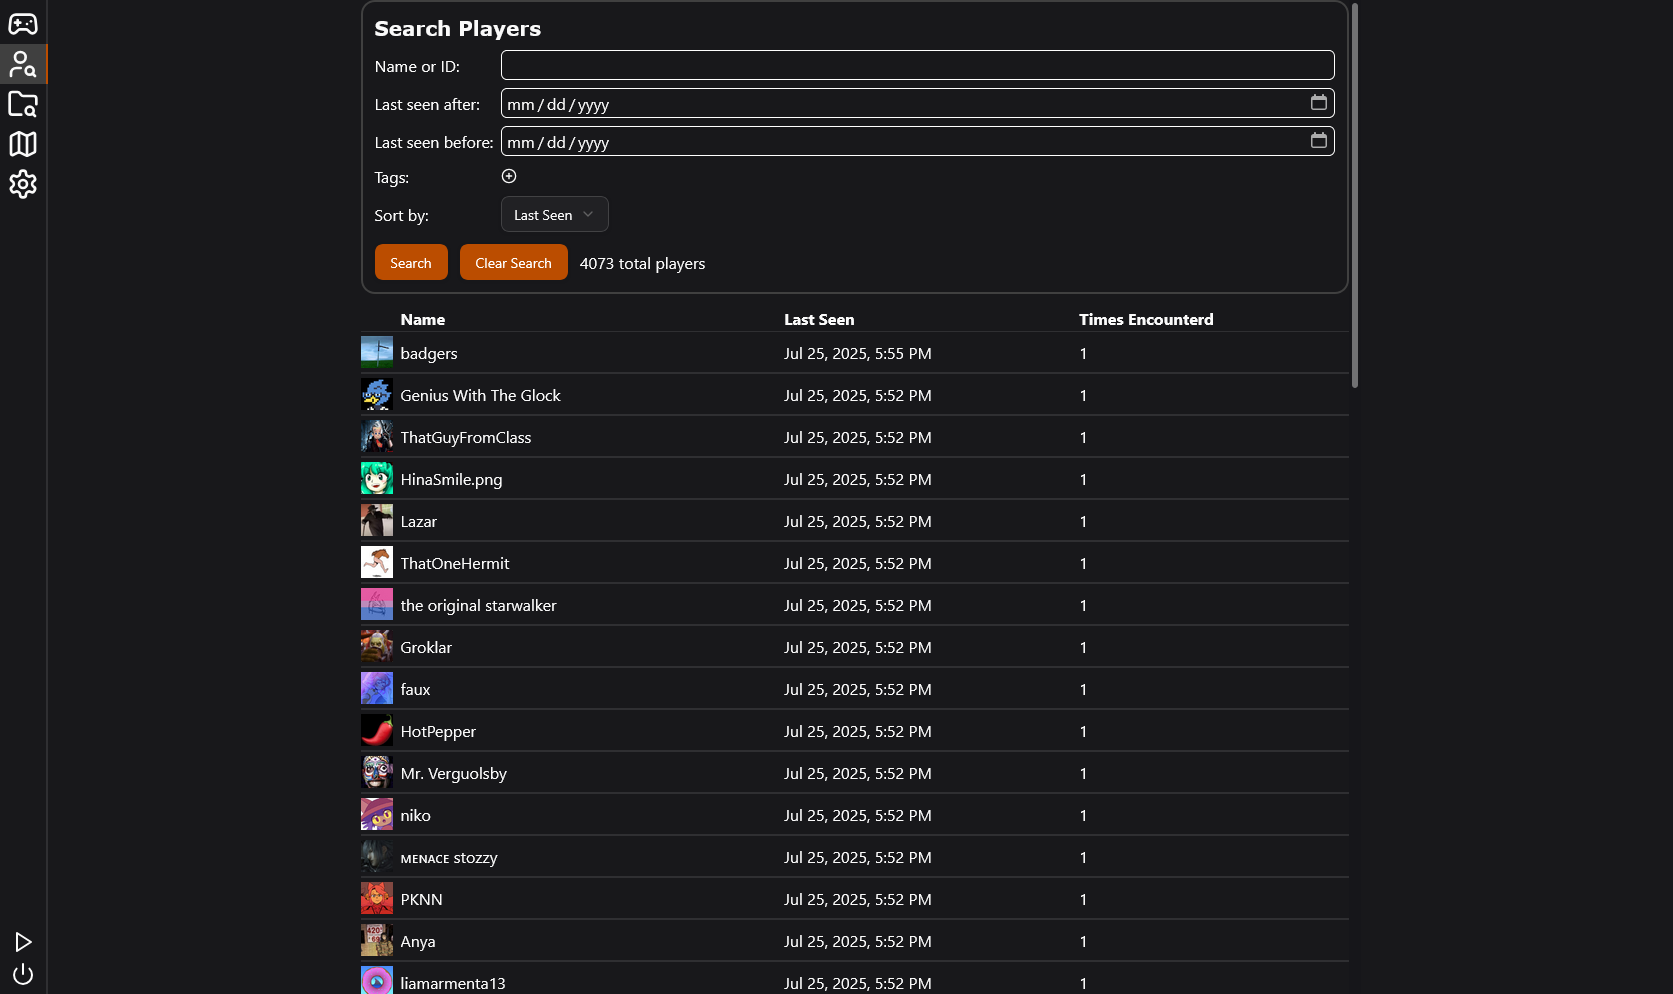
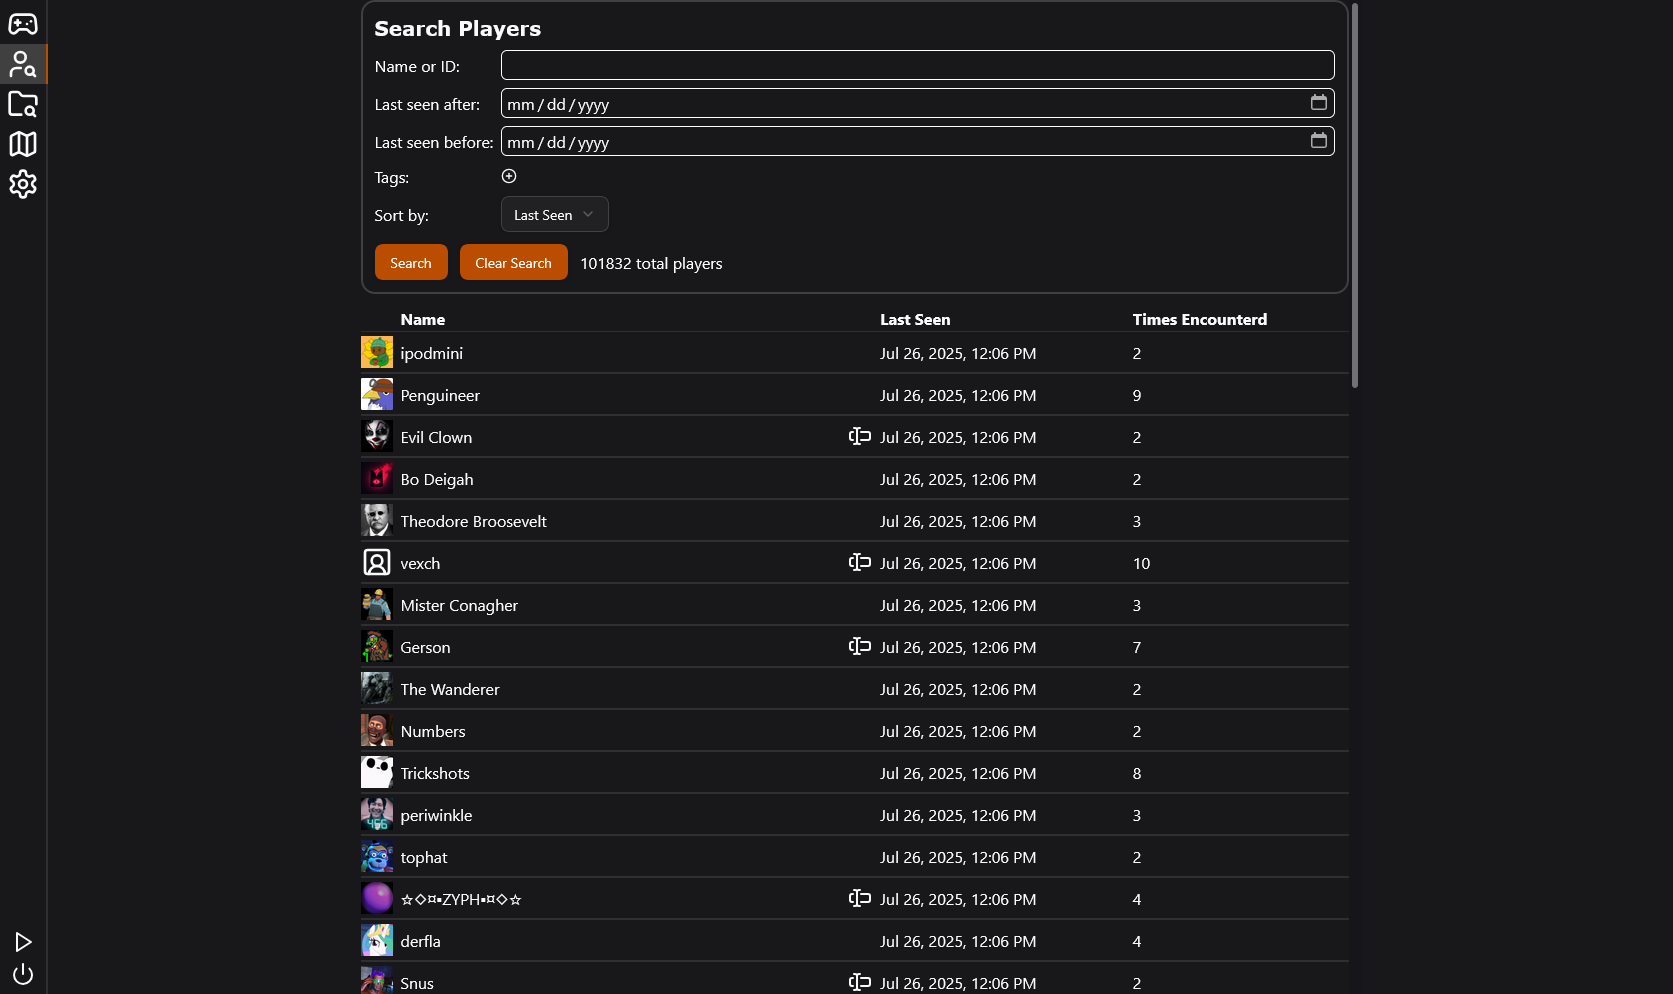
Import db from demos, small tweaks

diff --git a/backend/scripts/dbFromDemos.ts b/backend/scripts/dbFromDemos.ts
@@ -1,0 +1,167 @@
+import Settings from "src/settings/settings";
+import HistoryDatabase from "src/history/database";
+import { join } from "node:path";
+import { readdirSync } from "node:fs";
+import { execSync } from "node:child_process";
+import type { Stored, StoredPlayer, ParsedDemo, PastGamePlayer } from "$types/data";
+import { getCurrentUserId } from "src/util";
+import { MultiBar, Presets } from "cli-progress";
+import { Database } from "bun:sqlite";
+import { dataPath } from "src/consts";
+
+await Settings.init();
+HistoryDatabase.createDb();
+
+const steamId = await getCurrentUserId();
+const demosPath = join(Settings.get("tfPath"), "demos");
+const demos = readdirSync(demosPath).filter(file => file.endsWith(".dem"));
+
+const referenceDb = new Database(join(dataPath, "oldHistoryReference.sqlite"), { strict: true });
+
+// Check if there's already saved progress
+const progressFile = Bun.file("scripts/demoParseProgress.json");
+let parsed = 0;
+if(await progressFile.exists()) {
+    parsed = (await progressFile.json()).filesParsed;
+}
+
+const multi = new MultiBar({
+    format: "{bar} | {filename} | {value}/{total}"
+}, Presets.shades_grey);
+const bar = multi.create(demos.length, parsed, { filename: demos[parsed] });
+
+while(parsed < demos.length) {
+    bar.update(parsed, { filename: demos[parsed] });
+    recordDemo(demos[parsed]);
+
+    parsed++;
+    await progressFile.write(JSON.stringify({ filesParsed: parsed }));
+}
+
+multi.stop();
+
+function recordDemo(name: string) {
+    const parts = name.replace(".dem", "").replace("_", "-").split("-");
+    if(parts.length !== 6) return;
+
+    let numbers = parts.map(part => parseInt(part));
+    const date = new Date(numbers[0], numbers[1] - 1, numbers[2], numbers[3], numbers[4], numbers[5]);
+
+    // Assumes you have https://codeberg.org/demostf/parser installed
+    const command = `parse_demo "${join(demosPath, name)}"`;
+    
+    try {
+        const output: ParsedDemo = JSON.parse(execSync(command).toString());
+    
+        let players: Record<number, PastGamePlayer> = {};
+        let playerId = 0;
+        let playerKills = 0;
+        let playerDeaths = 0;
+
+        for(let player of Object.values(output.users)) {
+            let id3 = player.steamId.slice(5, -1); // Remove [U:1: and ]
+            if(id3 === steamId) playerId = player.userId;
+
+            // Ignore bots
+            if(id3.length <= 2) continue;
+
+            players[player.userId] = {
+                id: id3,
+                name: player.name,
+                time: date.getTime(),
+                kills: 0,
+                deaths: 0
+            }
+        }
+
+        // Get the playerid from our name in the header otherwise
+        if(!playerId) {
+            for(let player of Object.values(output.users)) {
+                if(player.name === output.header.nick) {
+                    playerId = player.userId;
+                    break;
+                }
+            }
+        }
+
+        if(!playerId) return;
+        delete players[playerId];
+
+        for(let kill of output.deaths) {
+            if(players[kill.killer]) players[kill.killer].kills++;
+            if(players[kill.victim]) players[kill.victim].deaths++;
+            if(kill.killer === playerId) playerKills++;
+            if(kill.victim === playerId) playerDeaths++;
+        }
+    
+        // Record games
+        let gameResult = HistoryDatabase.db.query(`INSERT INTO games (map, ip, start, duration, players, kills, deaths, demos)
+            VALUES($map, $ip, $start, $duration, $players, $kills, $deaths, $demos)`).run({
+            map: output.header.map,
+            ip: output.header.server,
+            start: date.getTime(),
+            duration: output.header.duration * 1000,
+            players: JSON.stringify(Object.values(players)),
+            kills: playerKills,
+            deaths: playerDeaths,
+            demos: JSON.stringify([name])
+        });
+
+        let rowid = gameResult.lastInsertRowid;
+
+        for(let player of Object.values(players)) {
+            // Record encounters
+            HistoryDatabase.db.query(`INSERT INTO encounters (playerId, map, name, gameId, time, kills, deaths)
+                VALUES($playerId, $map, $name, $gameId, $time, $kills, $deaths)`).run({
+                playerId: player.id,
+                map: output.header.map,
+                name: player.name,
+                gameId: rowid,
+                time: player.time,
+                kills: player.kills,
+                deaths: player.deaths
+            });
+        
+            // Record players
+            let data = HistoryDatabase.getPlayerData(player.id);
+            if(data) {
+                if(player.time > data.lastSeen) {
+                    data.lastName = player.name;
+                    data.lastSeen = player.time;
+                }
+
+                data.encounters++;
+
+                if(!data.names.includes(player.name)) {
+                    data.names.push(player.name);
+                }
+
+                HistoryDatabase.db.query(`UPDATE players SET lastName = $lastName, lastSeen = $lastSeen, encounters = $encounters, names = $names
+                    WHERE id = $id`).run({
+                    id: player.id,
+                    lastName: data.lastName,
+                    lastSeen: data.lastSeen,
+                    encounters: data.encounters,
+                    names: JSON.stringify(data.names)
+                });
+            } else {
+                // Try to get avatarHash/createdTimestamp from the reference database
+                let referenceData = referenceDb.query<Stored<StoredPlayer>, {}>(`SELECT * FROM players WHERE id = $id`)
+                    .get({ id: player.id });
+
+                HistoryDatabase.db.query(`INSERT INTO players (id, lastName, lastSeen, names, encounters, avatarHash, createdTimestamp)
+                    VALUES($id, $lastName, $lastSeen, $names, $encounters, $avatarHash, $createdTimestamp)`).run({
+                    id: player.id,
+                    lastName: player.name,
+                    lastSeen: player.time,
+                    names: JSON.stringify([player.name]),
+                    encounters: 1,
+                    avatarHash: referenceData?.avatarHash,
+                    createdTimestamp: referenceData?.createdTimestamp
+                });
+            }
+        }
+    } catch {
+        multi.log(`Failed to parse demo: ${name}`);
+    }
+}

diff --git a/types/data.ts b/types/data.ts
@@ -108,3 +108,51 @@ export interface StoredPlayer {
 export type PastPlayer = Omit<StoredPlayer, 'tags'> & {
     tags: Record<string, boolean>;
 }
+
+export interface DemoHeader {
+    demo_type: string;
+    version: number;
+    protocol: number;
+    server: string;
+    nick: string;
+    map: string;
+    game: "tf";
+    duration: number;
+    ticks: number;
+    frames: number;
+    signon: number;
+}
+
+export interface DemoChat {
+    kind: string;
+    from: string;
+    text: string;
+    tick: number;
+}
+
+export interface DemoUser {
+    classes: Record<string, number>;
+    name: string;
+    userId: number;
+    steamId: string;
+    team: string;
+}
+
+interface DemoDeath {
+    weapon: string;
+    victim: number;
+    assister: number | null;
+    killer: number;
+    tick: number;
+}
+
+export interface ParsedDemo {
+    header: DemoHeader;
+    chat: DemoChat[];
+    users: Record<string, DemoUser>;
+    deaths: DemoDeath[];
+    rounds: any[];
+    startTick: number;
+    intervalPerTick: number;
+    pauses: any[];
+}

diff --git a/frontend/src/lib/components/ui/tooltip/tooltip-content.svelte b/frontend/src/lib/components/ui/tooltip/tooltip-content.svelte
@@ -22,7 +22,7 @@
 		{sideOffset}
 		{side}
 		class={cn(
-			"bg-primary text-white animate-in fade-in-0 zoom-in-95 data-[state=closed]:animate-out data-[state=closed]:fade-out-0 data-[state=closed]:zoom-out-95 data-[side=bottom]:slide-in-from-top-2 data-[side=left]:slide-in-from-right-2 data-[side=right]:slide-in-from-left-2 data-[side=top]:slide-in-from-bottom-2 origin-(--bits-tooltip-content-transform-origin) z-50 w-fit text-balance rounded-md px-3 py-1.5 text-xs",
+			"bg-primary text-white animate-in fade-in-0 zoom-in-95 data-[state=closed]:animate-out data-[state=closed]:fade-out-0 data-[state=closed]:zoom-out-95 data-[side=bottom]:slide-in-from-top-2 data-[side=left]:slide-in-from-right-2 data-[side=right]:slide-in-from-left-2 data-[side=top]:slide-in-from-bottom-2 origin-(--bits-tooltip-content-transform-origin) z-[100] w-fit text-balance rounded-md px-3 py-1.5 text-xs",
 			className
 		)}
 		{...restProps}

diff --git a/frontend/src/lib/components/popups/PastPlayerPopup.svelte b/frontend/src/lib/components/popups/PastPlayerPopup.svelte
@@ -10,6 +10,7 @@
     import InfoIcon from "@lucide/svelte/icons/user";
     import HistoryIcon from "@lucide/svelte/icons/folder-clock";
     import throttle from "throttleit";
+    import Nameplate from "../player/Nameplate.svelte";
     import Avatar from "../player/Avatar.svelte";
 
     let player: PastPlayer | null = $state(null);
@@ -43,9 +44,11 @@
 
 <Popup type="openPastPlayerPopup" style="max-width: min(90%, 750px)" {onOpen} group={0}>
     {#if player}
-        <Dialog.Header class="text-2xl flex flex-row items-center">
+        <Dialog.Header class="flex flex-row items-center">
             <Avatar avatarHash={player.avatarHash} name={player.lastName} />
-            { player.lastName }
+            <div class="grow">
+                <Nameplate bind:player current={false} />
+            </div>
         </Dialog.Header>
         <Tabs.Root bind:value={tab}>
             <Tabs.List class="w-full">

diff --git a/frontend/src/lib/components/player/Nameplate.svelte b/frontend/src/lib/components/player/Nameplate.svelte
@@ -130,7 +130,7 @@
             {/if}
         </div>
     </ContextMenu.Trigger>
-    <ContextMenu.Content>
+    <ContextMenu.Content class="z-[100]">
         <ContextMenu.Sub>
             <ContextMenu.SubTrigger class="p-0">
                 <a class="h-full w-full px-2 py-1.5" href={`https://steamcommunity.com/profiles/${id64}`} target="_blank">

diff --git a/README.md b/README.md
@@ -18,9 +18,9 @@ The main appeal behind TFView is that it stores the games you play and the peopl
 
 ### Casual Map Selection
 
-![Map Selection Preview](./images/Map_Selection.png)
-
 TFView lets you create several profiles with different casual map selections, which you can then easily switch between. You need to hit "Load Saved Settings" in-game for the changes to apply if the game is active.
+
+![Map Selection Preview](./images/Map_Selection.png)
 
 ## Installation
 
@@ -37,3 +37,7 @@ You will be walked through setup upon opening TFView for the first time. There a
 2. Add `ip 0.0.0.0`, `rcon_password [your password here]`, and `net_start` to your autoexec.
 3. (Optional, but strongly recommended) Get a [Steam api key](https://steamcommunity.com/dev/apikey). This lets you see the profile pictures of the players in your game.
 4. (Optional) Get a [MegaAntiCheat api key](https://megaanticheat.com/provision) to send demos of games you play to MegaAntiCheat's masterbase. (You will also need to run `ds_enable 2` in the console).
+
+## Storage Usage
+
+TFView uses a really small amount of storage space. Even with 100,000 different players and 6,500 different games recorded the database only uses roughly 42 megabytes.
